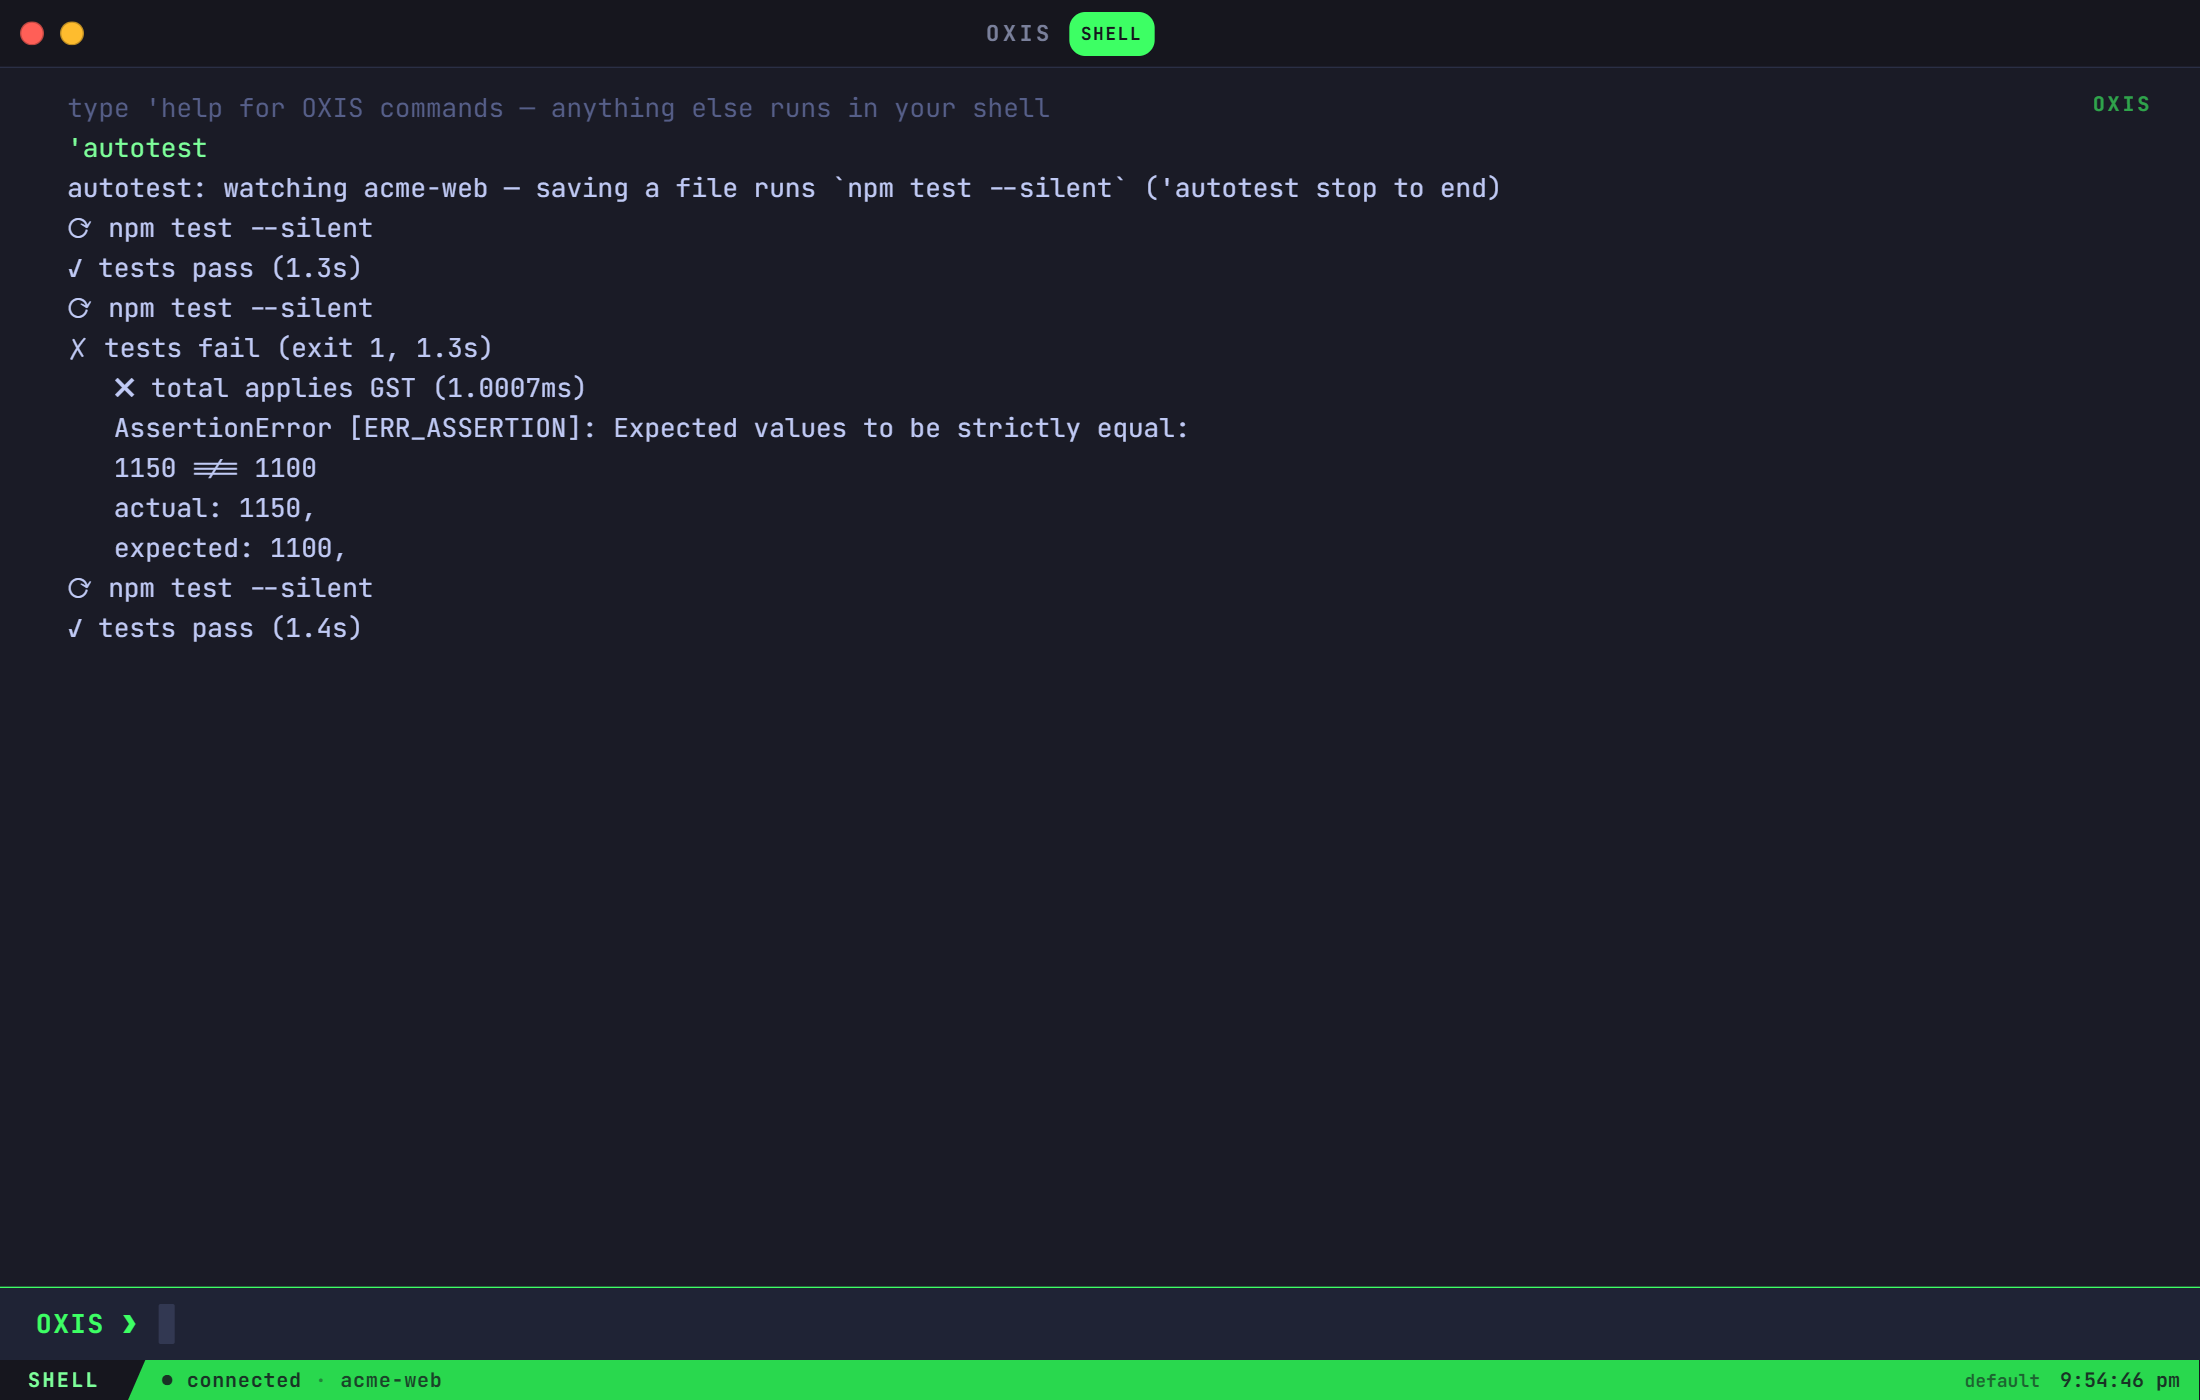
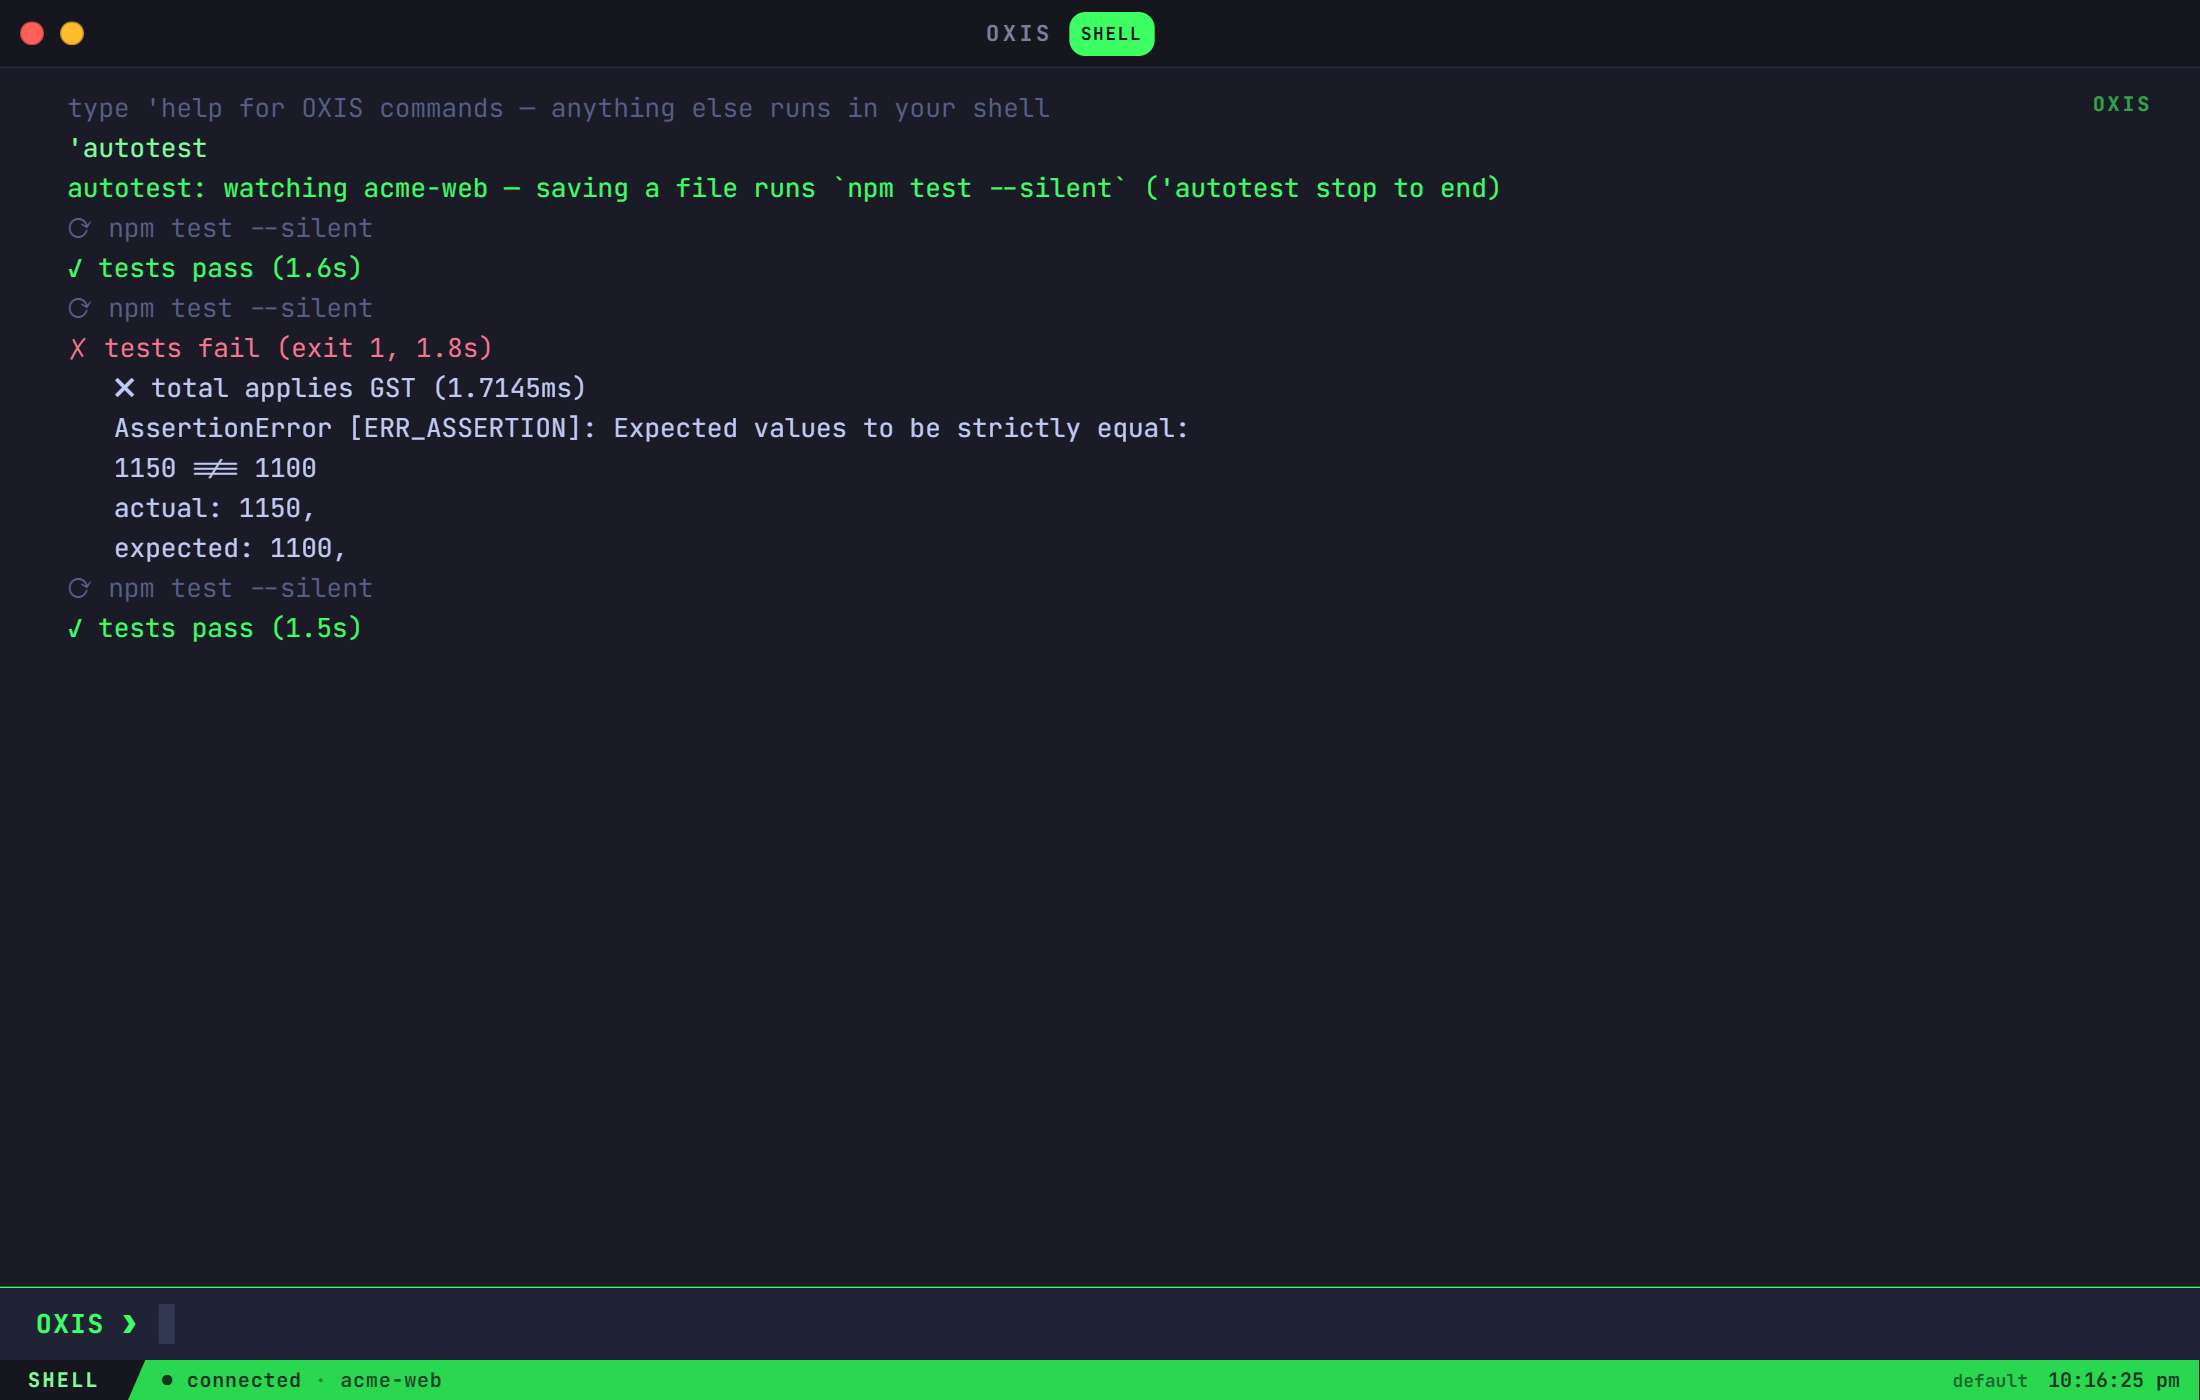
Plugins can colour their output: oxis.echo(text, kind)
kind is "ok", "err", "warn", "dim" or "accent", the colours OXIS's own
messages use. autotest 1.0.1 uses them (pass green, fail red, runs dim);
older OXIS builds ignore the argument.

diff --git a/frontend/src/plugins/luaRuntime.ts b/frontend/src/plugins/luaRuntime.ts
@@ -39,7 +39,8 @@ export type LuaHandle = Record<string, (...args: LuaJSValue[]) => LuaJSValue | v
 export interface OxisBindings {
   command(name: string, invoke: (args: string[], rest: string, raw: string) => void, desc: string | undefined): void;
   task(name: string, cmd: string, desc: string | undefined): void;
-  echo(text: string): void;
+  /** kind: "ok", "err", "warn", "dim" or "accent" (default: plain). */
+  echo(text: string, kind?: string): void;
   // Returns a promise; Lua never sees it, but the binding catches it.
   run(cmd: string): Promise<{ ok: boolean }>;
   /** Quotes text as one argument for the platform's shell. */
@@ -324,7 +325,7 @@ function buildOxisTable(L: LuaState, b: OxisBindings, closedRef: StateRef): void
     return 0;
   });
 
-  setfn("echo", (L) => { b.echo(lua.lua_tojsstring(L, 1)); return 0; });
+  setfn("echo", (L) => { b.echo(lua.lua_tojsstring(L, 1), argString(L, 2)); return 0; });
   // oxis.run() has no Lua callback, so log failures (a denied
   // permission, for example) here.
   setfn("run",  (L) => {

diff --git a/frontend/src/plugins/pluginAPI.ts b/frontend/src/plugins/pluginAPI.ts
@@ -137,6 +137,10 @@ const AUTOCMD_ALIASES: Record<string, string> = {
   terminal_close: "shell_exited",
 };
 
+/** Colours a plugin may give its oxis.echo lines. */
+const ECHO_KINDS = new Set(["ok", "err", "warn", "dim", "accent", "info"]);
+type LineKind = import("../terminal/terminal").LineKind;
+
 /** oxis.editor.on() names → internal events. */
 const EDITOR_EVENTS: Record<string, string> = {
   open: "editor_opened",
@@ -203,7 +207,9 @@ export function buildLuaAPI(ctx: APIContext): OxisBindings {
       });
     },
 
-    echo: (text) => ctx.print(`  ${text}`, "info"),
+    // oxis.echo(text [, kind]): kind colours the line like OXIS's own
+    // messages — "ok", "err", "warn", "dim" or "accent".
+    echo: (text, kind) => ctx.print(`  ${text}`, ECHO_KINDS.has(kind ?? "") ? kind as LineKind : "info"),
     run: (cmd) => runScript(ctx, cmd),
     quote: (text) => shellQuote(text),
     theme: (name) => { themeManager.apply(name); },

diff --git a/README.md b/README.md
@@ -679,7 +679,7 @@ Everything is on the global `oxis` table.
 | `oxis.workflow(name, def, description)` | Register a workflow (see [Workspaces](#tasks-and-workflows)) |
 | `oxis.run(cmd)` | Run a command in the shell. Multi-line scripts run as one script file (`.ps1` on Windows, bash elsewhere), so a `Read-Host`/`read` prompt gets your answer rather than the next line; `&&` works on Windows PowerShell 5.1 too. |
 | `oxis.quote(text)` | `text` quoted as one argument for the platform's shell, safe to splice into `oxis.run()` (e.g. `oxis.run("git blame -- " .. oxis.quote(rest))`) |
-| `oxis.echo(text)` | Print a line in the terminal |
+| `oxis.echo(text [, kind])` | Print a line in the terminal; `kind` colours it like OXIS's own messages: `"ok"`, `"err"`, `"warn"`, `"dim"`, `"accent"` |
 | `oxis.cwd()` | The shell's current directory |
 | `oxis.platform` | `"windows"` or `"unix"` |
 | `oxis.theme(name)` | Switch theme |

diff --git a/CHANGELOG.md b/CHANGELOG.md
@@ -25,6 +25,8 @@ All notable changes to OXIS. The format follows
   "change" | "save" | "close")`. A plugin's changes are undoable, and a
   streamed run of them is one undo step.
 - `oxis.json.encode` / `oxis.json.decode`.
+- `oxis.echo(text, kind)` colours a plugin's line like OXIS's own messages
+  (`"ok"`, `"err"`, `"warn"`, `"dim"`, `"accent"`).
 - `autotest` in the Market: `'autotest` re-runs a project's tests every
   time a file is saved (npm, Go, Cargo or pytest, detected; or any
   command) and prints one line, pass with the time taken or fail with
